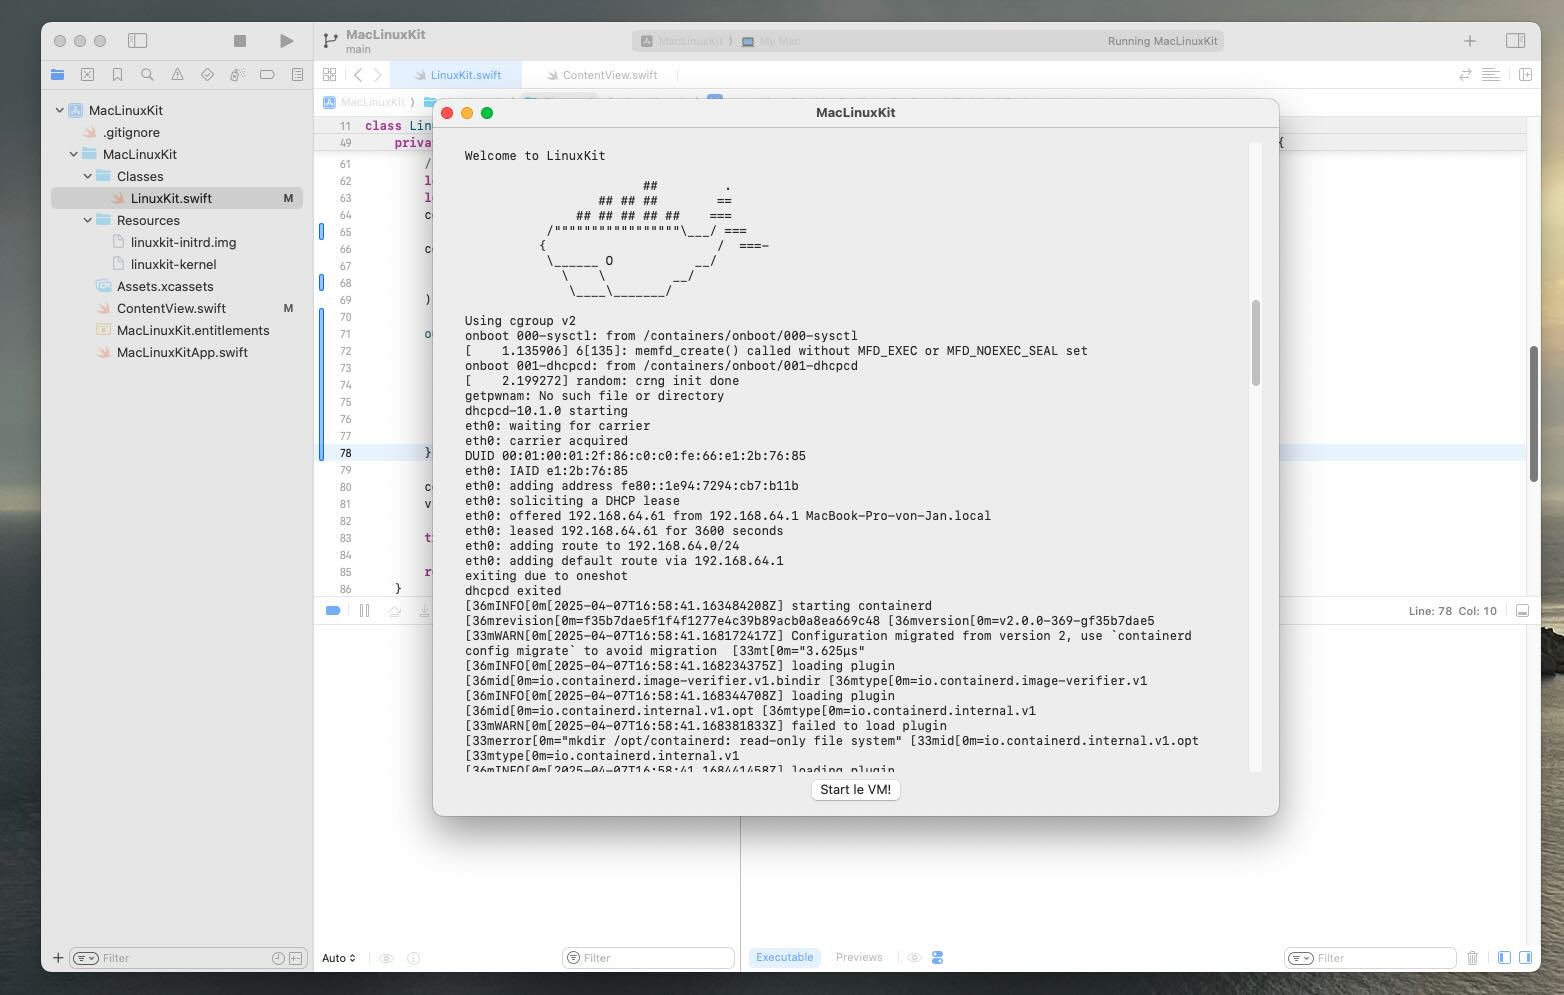
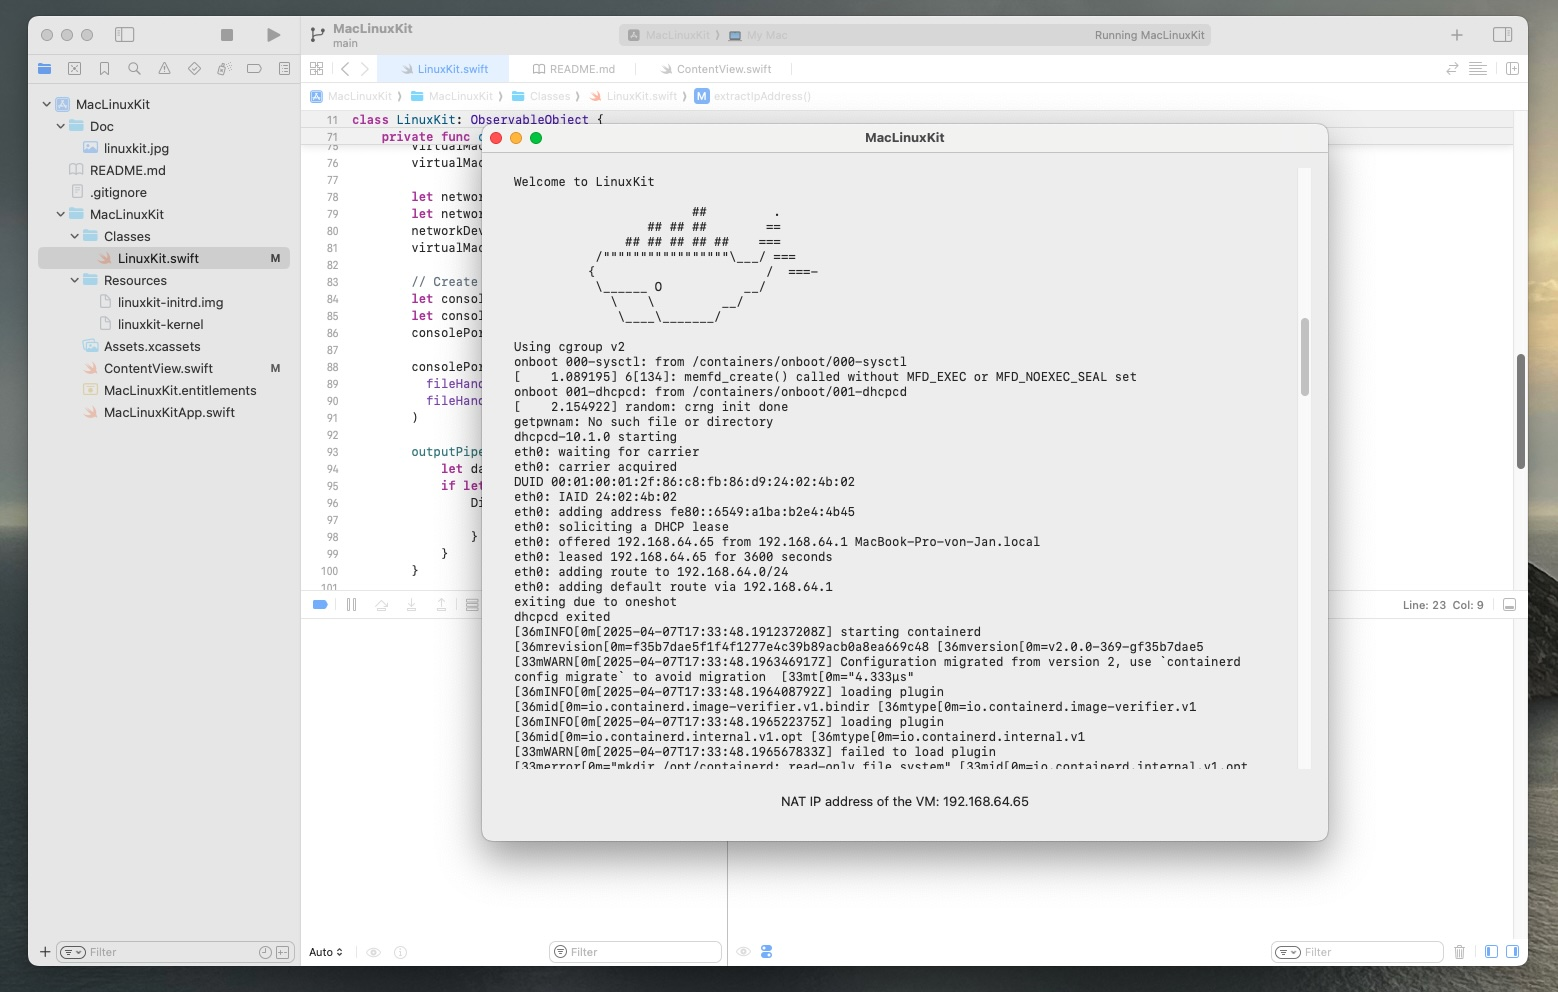
implemented capturing IPv4 address of the VM

diff --git a/MacLinuxKit/Classes/LinuxKit.swift b/MacLinuxKit/Classes/LinuxKit.swift
@@ -10,9 +10,25 @@ import Virtualization
 
 class LinuxKit: ObservableObject {
     private var virtualMachine: VZVirtualMachine?
-    private var ipAddress: String = ""
     private var outputPipe = Pipe()
+    private var readTimer: Timer?
     @Published public var standardOutput = ""
+    @Published var ipAddress: String = ""
+    @Published var isRunning: Bool = false
+    
+    private func extractIpAddress() -> String? {
+        let pattern = #"leased (\d{1,3}\.\d{1,3}\.\d{1,3}\.\d{1,3}) for"#
+        let regex = try? NSRegularExpression(pattern: pattern, options: [])
+        let range = NSRange(location: 0, length: standardOutput.utf16.count)
+        
+        if let match = regex?.firstMatch(in: standardOutput, options: [], range: range) {
+            if let ipRange = Range(match.range(at: 1), in: standardOutput) {
+                return String(standardOutput[ipRange])
+            }
+        }
+        
+        return nil
+    }
     
     func startVM() throws {
         guard let initrdURL = Bundle.main.url(forResource: "linuxkit-initrd", withExtension: "img"),
@@ -32,13 +48,19 @@ class LinuxKit: ObservableObject {
             case .success:
                 print("VM started successfully")
                 print("VM state: \(self.virtualMachine!.state.rawValue)")
+                self.isRunning = true
                 
                 self.virtualMachine?.networkDevices.forEach { device in
                     print("Network device: \(device.debugDescription)")
                 }
                 
-                Timer.scheduledTimer(withTimeInterval: 1.0, repeats: true) { timer in
-                    // ...
+                self.readTimer = Timer.scheduledTimer(withTimeInterval: 1.0, repeats: true) { timer in
+                    let extractedIpAddr = self.extractIpAddress()
+                    if extractedIpAddr != nil {
+                        self.ipAddress = extractedIpAddr!
+                        print("Extracted IP address: \(self.ipAddress)")
+                        self.readTimer?.invalidate()
+                    }
                 }
             case .failure(let error):
                 print("VM failed to start: \(error)")

diff --git a/MacLinuxKit/ContentView.swift b/MacLinuxKit/ContentView.swift
@@ -16,13 +16,19 @@ struct ContentView: View {
                 Text(linuxKit.standardOutput)
                     .font(.system(size: 12, design: .monospaced))
                     .padding()
+                    .textSelection(.enabled)
             }
             
-            Button("Start le VM!") {
-                do {
-                    try linuxKit.startVM()
-                } catch {
-                    print("Error starting VM: \(error)")
+            if linuxKit.isRunning {
+                Text("NAT IP address of the VM: \(linuxKit.ipAddress)")
+                    .padding()
+            } else {
+                Button("Start le VM!") {
+                    do {
+                        try linuxKit.startVM()
+                    } catch {
+                        print("Error starting VM: \(error)")
+                    }
                 }
             }
         }
